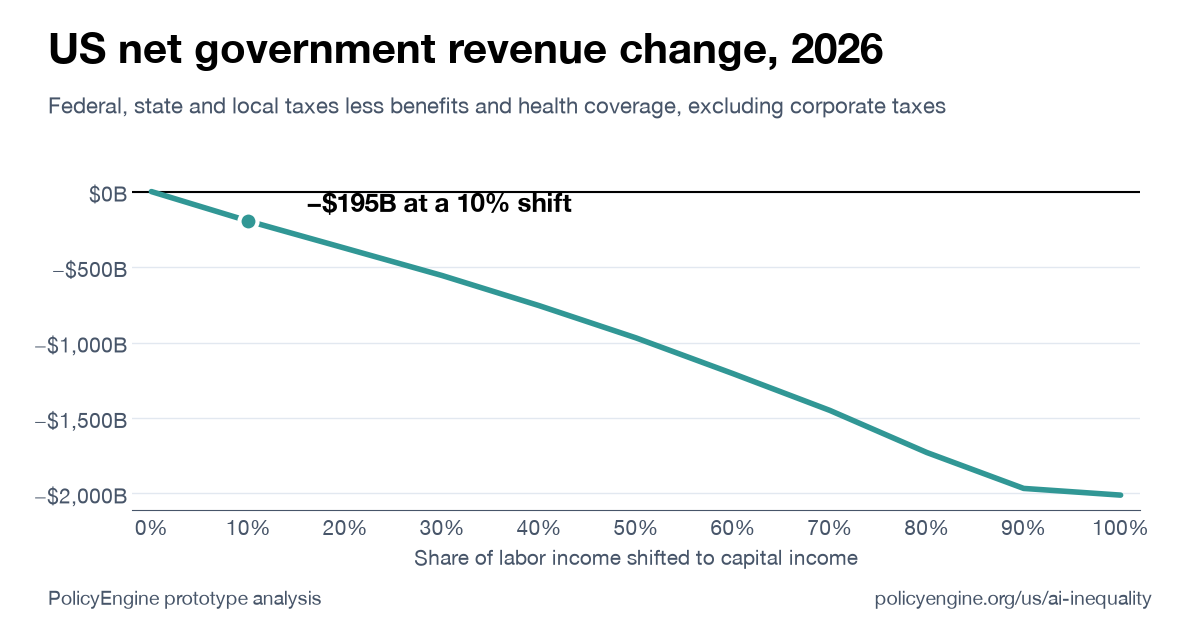
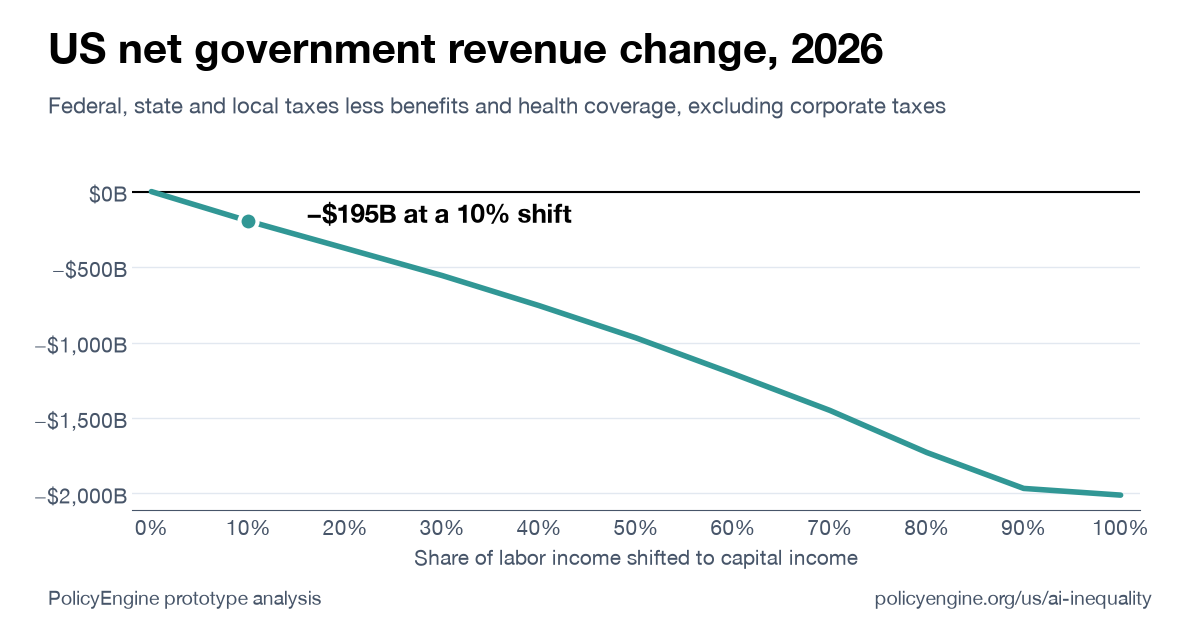
Fix round-1 review findings on the kit colours
- Legend names and tooltip rows stay in ink. kitTheme.js adds
  LEGEND_PROPS (the kit's legend wrapper, names in --muted-foreground) and
  TOOLTIP_PROPS (the kit's tooltip box, label and item styles). The AI
  scenario charts take both, so the forecast series' name and values no
  longer draw in --chart-1, which reads at 3.51:1 on white.
- The sweep and income-distribution legends return plain names, so each
  swatch's accessible name reads "<name> legend icon", not "[object
  Object] legend icon". The sweep keeps its fill-based swatches.
- chartText.test.jsx checks both on the rendered legends and checks that
  every Tooltip in the chart code sets the kit's label and item styles; it
  fails on the previous commit.
- The colour guard catches every CSS colour function (hwb, lab, lch,
  oklab, oklch, color) and var() fallbacks, and reads app/ as well as src/.
  stackNeighbours.js renames its oklab() helper to toOklab() so the guard
  doesn't read it as a colour.
- The link-preview card's callout sits clear of the zero line.

Changed region(s): [[0.2467, 0.3016, 0.4933, 0.3619]]

diff --git a/src/charts/chartText.test.jsx b/src/charts/chartText.test.jsx
@@ -1,0 +1,103 @@
+import { cloneElement } from "react";
+import { readdirSync, readFileSync } from "node:fs";
+import { join } from "node:path";
+import { fireEvent, render, screen } from "@testing-library/react";
+import { MemoryRouter } from "react-router-dom";
+import { vi } from "vitest";
+
+import AIScenarios from "../components/AIScenarios";
+import IncomeDistributionBreakdown from "../components/IncomeDistributionBreakdown";
+import ShiftSweep from "../components/ShiftSweep";
+import sweepData from "../data/shiftSweepData.json";
+import { TEXT } from "./kitTheme";
+
+// jsdom gives ResponsiveContainer no size, so Recharts draws no legend there.
+vi.mock("recharts", async (importOriginal) => {
+  const actual = await importOriginal();
+  return {
+    ...actual,
+    ResponsiveContainer: ({ children, height }) =>
+      cloneElement(children, {
+        width: 800,
+        height: typeof height === "number" ? height : 400,
+      }),
+  };
+});
+
+// Each legend entry's name, the colour it's written in and its swatch's
+// accessible name.
+function legendEntries() {
+  return [...document.querySelectorAll(".recharts-legend-item")].map((item) => {
+    const text = item.querySelector(".recharts-legend-item-text");
+    return {
+      name: text.textContent,
+      colour: text.style.color,
+      swatch: item.querySelector("svg").getAttribute("aria-label"),
+    };
+  });
+}
+
+function expectInkAndNames(entries) {
+  expect(entries.length).toBeGreaterThan(0);
+  for (const entry of entries) {
+    expect(entry.colour).toBe(TEXT.muted);
+    expect(entry.swatch).toBe(`${entry.name} legend icon`);
+  }
+}
+
+describe("chart legends", () => {
+  it("write the sweep's band names in ink, with plain swatch names", () => {
+    render(
+      <MemoryRouter>
+        <ShiftSweep sweepData={sweepData} />
+      </MemoryRouter>,
+    );
+    fireEvent.click(
+      screen.getByRole("radio", { name: /net government revenue change/i }),
+    );
+    expectInkAndNames(legendEntries());
+  });
+
+  it("write the income components' names in ink, with plain swatch names", () => {
+    render(<IncomeDistributionBreakdown />);
+    expectInkAndNames(legendEntries());
+  });
+
+  it("write the AI scenarios' series names in ink, with plain swatch names", () => {
+    render(
+      <MemoryRouter>
+        <AIScenarios />
+      </MemoryRouter>,
+    );
+    expectInkAndNames(legendEntries());
+  });
+});
+
+// Recharts writes each tooltip row in its series' colour unless the Tooltip
+// sets itemStyle, so every Tooltip in the site's chart code takes the kit's.
+describe("chart tooltips", () => {
+  const ROOT = process.cwd();
+  const DIRS = ["src/components", "src/charts", "src/views"];
+  const files = DIRS.flatMap((dir) =>
+    readdirSync(join(ROOT, dir))
+      .filter((name) => /\.jsx$/.test(name) && !/\.test\./.test(name))
+      .map((name) => join(dir, name)),
+  );
+
+  it("each set the kit's label and item styles", () => {
+    const missing = files.flatMap((path) => {
+      const code = readFileSync(join(ROOT, path), "utf8");
+      const tooltips = [...code.matchAll(/<Tooltip\b[\s\S]*?\/>/g)].map(
+        (match) => match[0],
+      );
+      return tooltips
+        .filter(
+          (tag) =>
+            !tag.includes("{...TOOLTIP_PROPS}") &&
+            !(tag.includes("itemStyle=") && tag.includes("labelStyle=")),
+        )
+        .map((tag) => `${path}: ${tag.slice(0, 60)}`);
+    });
+    expect(missing).toEqual([]);
+  });
+});

diff --git a/src/charts/noHex.test.js b/src/charts/noHex.test.js
@@ -4,15 +4,19 @@ import { join, relative } from "node:path";
 import { parse } from "espree";
 
 // Chart code draws every colour from kitTheme.js, so it holds no colour
-// literal of its own: no hex, rgb(), rgba(), hsl() or hsla(), including one
-// a template literal builds, no CSS named colour such as "white" anywhere,
-// and no bare word in a colour prop, however its value is written. Comments
-// don't count; kitTheme.js names each token's hex value in one.
+// literal of its own: no hex and no CSS colour function such as rgb(), hsl()
+// or oklch(), including one a template literal builds; no var() with a
+// fallback, which could name a colour of its own; no CSS named colour such as
+// "white" anywhere; and no bare word in a colour prop, however its value is
+// written. Comments don't count; kitTheme.js names each token's hex value in
+// one.
 
 const ROOT = process.cwd();
 const SRC = join(ROOT, "src");
+const APP = join(ROOT, "app");
 
-const COLOUR_LITERAL = /#[0-9a-f]{3,8}\b|\b(?:rgba?|hsla?)\s*\(/gi;
+const COLOUR_LITERAL =
+  /#[0-9a-f]{3,8}\b|\b(?:rgba?|hsla?|hwb|lab|lch|oklab|oklch|color)\s*\(|var\(\s*--[\w-]+\s*,/gi;
 // A prop that takes a colour: fill, stroke, color, background and any name
 // ending in one of them, such as stopColor, textFill or backgroundColor.
 const COLOUR_PROP = /(?:fill|stroke|colou?r|background)$/i;
@@ -167,7 +171,7 @@ const importsRecharts = (source) =>
   /from\s+["']recharts["']/.test(source) ||
   /require\(\s*["']recharts["']\s*\)/.test(source);
 
-const CHART_FILES = sourceFiles(SRC).filter(
+const CHART_FILES = [...sourceFiles(SRC), ...sourceFiles(APP)].filter(
   (path) =>
     importsRecharts(readFileSync(path, "utf8")) ||
     path === join(SRC, "utils", "chartStyles.js") ||
@@ -191,11 +195,19 @@ test("the scan finds each kind of colour literal and skips comments", () => {
     'const k = { textFill: "red", labelColor: "blue" };',
     'const l = ["teal", "Navy"];',
     'const m = { label: "Teal gains, gray loses.", fill: TEXT.primary };',
+    'const n = <Line stroke="oklch(60% 0.2 30)" />;',
+    'const o = <Line stroke="var(--chart-1, red)" />;',
+    'const p = { color: "color(display-p3 1 0 0)", fill: `lab(${l} 0 0)` };',
+    'const q = { stroke: "var(--chart-1)", text: getColor(x), label: y };',
   ].join("\n");
   expect(colourLiterals(sample)).toEqual([
     "3: #227773",
     "4: rgba(",
     "5: hsl(",
+    "16: oklch(",
+    "17: var(--chart-1,",
+    "18: color(",
+    "18: lab(",
     '6: stroke="white"',
     '7: fill="orange"',
     '9: fill="red"',
@@ -205,6 +217,7 @@ test("the scan finds each kind of colour literal and skips comments", () => {
     "12: #${…}",
     '13: textFill="red"',
     '13: labelColor="blue"',
+    "18: `lab(`",
     '14: "teal"',
     '14: "Navy"',
   ]);
@@ -217,6 +230,9 @@ test("the scan covers every file that draws a chart", () => {
   expect(names).toContain("src/components/IncomeDistributionBreakdown.jsx");
   expect(names).toContain("src/utils/chartStyles.js");
   expect(names).toContain("src/charts/kitTheme.js");
+  // The app/ directory draws no chart today; the scan reads it all the same,
+  // so a chart added there is checked.
+  expect(sourceFiles(APP).length).toBeGreaterThan(0);
 });
 
 test.each(CHART_FILES.map((path) => [relative(ROOT, path), path]))(

diff --git a/src/components/AIScenarios.jsx b/src/components/AIScenarios.jsx
@@ -19,12 +19,13 @@ import defaultScenariosData from "../data/aiScenariosData.json";
 import {
   FALL_IS_GOOD,
   GRID_STYLE,
+  LEGEND_PROPS,
   LINE,
   SERIES,
   TEXT,
+  TOOLTIP_PROPS,
   ZERO_LINE,
 } from "../charts/kitTheme";
-import { TOOLTIP_STYLE } from "../utils/chartStyles";
 import { microcosmBuildLabel } from "../utils/modelMetadata";
 import { useRovingRadioGroup } from "../utils/useRovingRadioGroup";
 
@@ -146,10 +147,10 @@ function TiltCostChart({ scenarios }) {
             }}
           />
           <Tooltip
-            contentStyle={TOOLTIP_STYLE}
+            {...TOOLTIP_PROPS}
             formatter={(value, seriesName) => [fmtBillions(value), seriesName]}
           />
-          <Legend wrapperStyle={{ fontSize: 12 }} />
+          <Legend {...LEGEND_PROPS} />
           <Bar
             dataKey="fixed"
             name="Shares held at today's split"
@@ -190,7 +191,7 @@ function VariantPairCharts({ scenarios, scenarioName }) {
             <XAxis dataKey="variant" tick={{ fontSize: 11 }} />
             <YAxis tickFormatter={(v) => `$${v}B`} tick={{ fontSize: 12 }} />
             <Tooltip
-              contentStyle={TOOLTIP_STYLE}
+              {...TOOLTIP_PROPS}
               formatter={(value) => [fmtBillions(value), "Revenue change"]}
             />
             <Bar
@@ -213,7 +214,7 @@ function VariantPairCharts({ scenarios, scenarioName }) {
             />
             <ReferenceLine y={0} {...ZERO_LINE} />
             <Tooltip
-              contentStyle={TOOLTIP_STYLE}
+              {...TOOLTIP_PROPS}
               formatter={(value) => [fmtPp(value), "Poverty change"]}
             />
             <Bar dataKey="povertyPp" isAnimationActive={false}>
@@ -292,7 +293,7 @@ function RealizationChart({ rows, breakeven }) {
             />
           )}
           <Tooltip
-            contentStyle={TOOLTIP_STYLE}
+            {...TOOLTIP_PROPS}
             formatter={(value) => [fmtBillions(value), "Revenue change"]}
             labelFormatter={(value) => `${value}% realized`}
           />

diff --git a/src/components/IncomeDistributionBreakdown.jsx b/src/components/IncomeDistributionBreakdown.jsx
@@ -17,10 +17,9 @@ import {
   BAND_EDGE,
   GAIN,
   GRID_STYLE,
-  LEGEND_STYLE,
+  LEGEND_PROPS,
   LOSS,
   SERIES,
-  TEXT,
   TOOLTIP_ITEM_STYLE,
   TOOLTIP_LABEL_STYLE,
   ZERO_LINE,
@@ -84,11 +83,6 @@ export const SEGMENT_COLOURS = {
   benefits: GAIN,
   taxes: LOSS,
 };
-
-// Legend names stay in ink; the swatch beside each carries the segment colour.
-const legendText = (label) => (
-  <span style={{ color: TEXT.muted }}>{label}</span>
-);
 
 const TOP_SHARE_KEYS = ["top10", "top1", "top01"];
 
@@ -328,14 +322,12 @@ function IncomeDistributionBreakdown() {
               {/* The legend keeps the stacking order, which is the order of
                   the Components list, instead of sorting by key. */}
               <Legend
-                {...LEGEND_STYLE}
+                {...LEGEND_PROPS}
                 itemSorter={null}
                 formatter={(value) =>
-                  legendText(
-                    concept.components.find(
-                      (component) => component.key === value,
-                    )?.label ?? value,
-                  )
+                  concept.components.find(
+                    (component) => component.key === value,
+                  )?.label ?? value
                 }
               />
               {concept.components.map((component) => (

diff --git a/src/components/ShiftSweep.jsx b/src/components/ShiftSweep.jsx
@@ -25,7 +25,7 @@ import {
   BAND_EDGE,
   GAIN,
   GRID_STYLE,
-  LEGEND_STYLE,
+  LEGEND_PROPS,
   LINE,
   LOSS,
   SERIES,
@@ -219,10 +219,6 @@ const FED_INCOME_TAX_BUCKETS = [
 ];
 
 // Legend names stay in ink; the swatch beside each carries the series colour.
-const legendText = (value) => (
-  <span style={{ color: TEXT.muted }}>{value}</span>
-);
-
 // Recharts colours an area's legend swatch with its stroke, which for a band is
 // BAND_EDGE, so a band's swatch takes its fill instead.
 function BandLegend(props) {
@@ -840,11 +836,7 @@ function RevenueDecompositionChart({
               `${value}% shift`
             }
           />
-          <Legend
-            {...LEGEND_STYLE}
-            formatter={legendText}
-            content={BandLegend}
-          />
+          <Legend {...LEGEND_PROPS} content={BandLegend} />
           {/* Band i fills with SERIES[i]; no bucket list holds more than six.
               Each band draws BAND_EDGE along its outer edge, because a band
               near zero lets two bands that are not list neighbours touch. */}

diff --git a/src/charts/kitTheme.js b/src/charts/kitTheme.js
@@ -69,6 +69,20 @@ export const TEXT = {
   muted: "var(--muted-foreground)",
 };
 
+// Spread onto every Recharts Legend and Tooltip. Recharts otherwise writes
+// legend names and tooltip rows in each series' colour, and var(--chart-1) on
+// white falls below the 4.5:1 that text this size needs. The swatch beside
+// each name still carries the series colour.
+export const LEGEND_PROPS = {
+  ...LEGEND_STYLE,
+  labelStyle: { color: TEXT.muted },
+};
+export const TOOLTIP_PROPS = {
+  contentStyle: TOOLTIP_CONTENT_STYLE,
+  labelStyle: TOOLTIP_LABEL_STYLE,
+  itemStyle: TOOLTIP_ITEM_STYLE,
+};
+
 // Every CSS variable a chart can reach through this module, including the
 // ones inside the kit's axis, grid, legend and tooltip styles.
 export function tokensUsed() {
@@ -95,6 +109,8 @@ export function tokensUsed() {
     ZERO_LINE,
     BAND_EDGE,
     TEXT,
+    LEGEND_PROPS,
+    TOOLTIP_PROPS,
   ]);
   return [...found].sort();
 }

diff --git a/src/charts/stackNeighbours.js b/src/charts/stackNeighbours.js
@@ -57,11 +57,11 @@ export function tokenHex(css, colour) {
 // The distance between two colours in OKLab, times 100: the ΔE the dataviz
 // palette validator reports, where 15 is the floor for neighbours.
 export function colourDistance(hexA, hexB) {
-  const [a, b] = [hexA, hexB].map(oklab);
+  const [a, b] = [hexA, hexB].map(toOklab);
   return 100 * Math.hypot(a[0] - b[0], a[1] - b[1], a[2] - b[2]);
 }
 
-function oklab(hex) {
+function toOklab(hex) {
   const [r, g, b] = [1, 3, 5].map((start) => {
     const c = parseInt(hex.slice(start, start + 2), 16) / 255;
     return c <= 0.04045 ? c / 12.92 : ((c + 0.055) / 1.055) ** 2.4;

diff --git a/scripts/make_og_card.py b/scripts/make_og_card.py
@@ -132,7 +132,7 @@ def main():
     ax.annotate(
         f"{money(ten)} at a 10% shift",
         xy=(10, ten),
-        xytext=(16, ten * 0.35),
+        xytext=(16, ten * 0.72),
         fontsize=19,
         fontweight="bold",
         color=text_primary,
